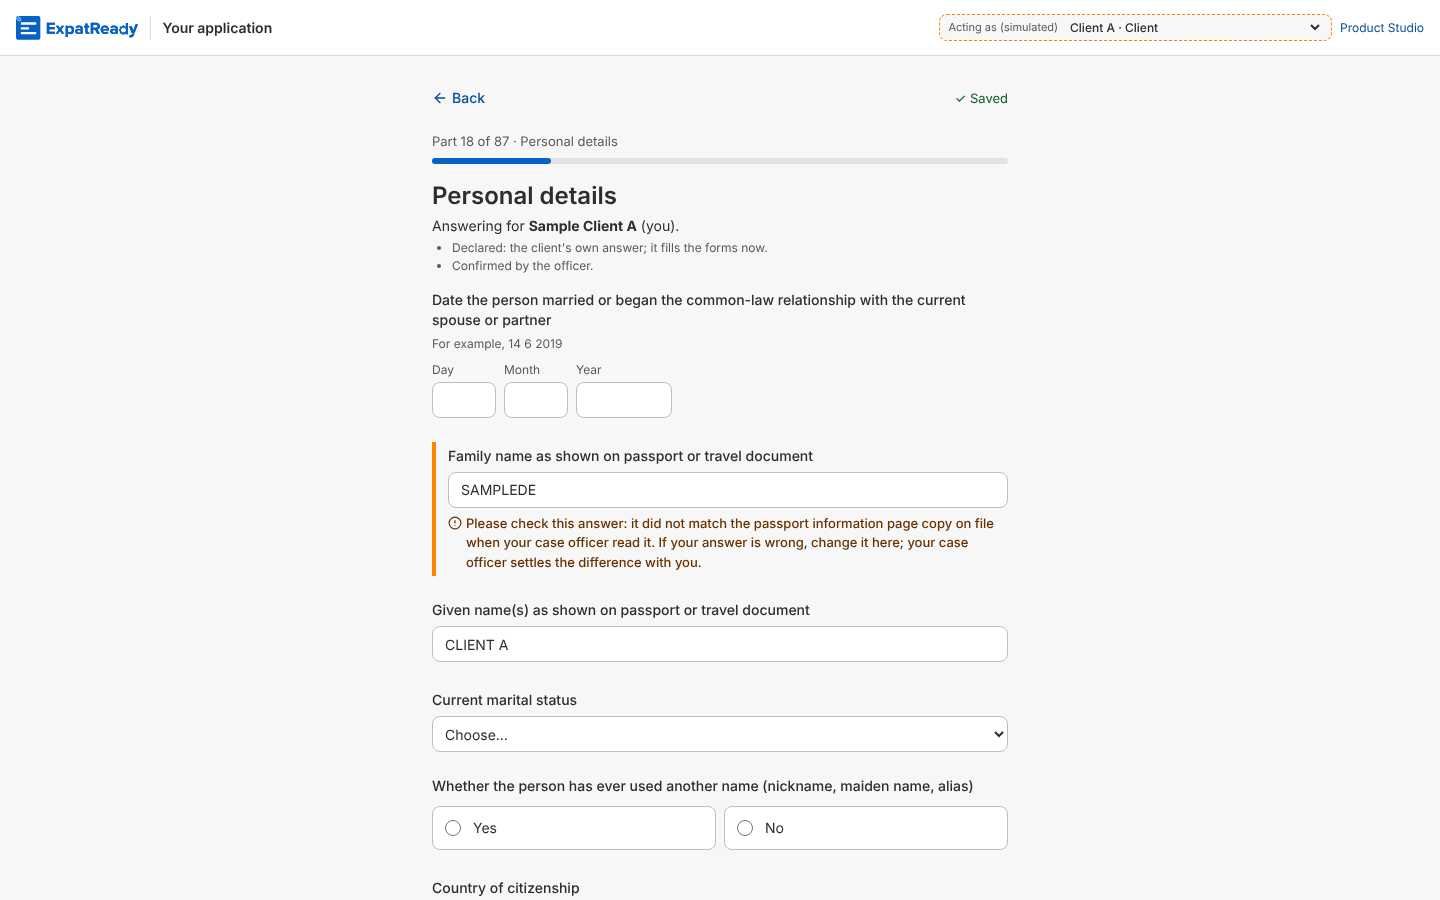
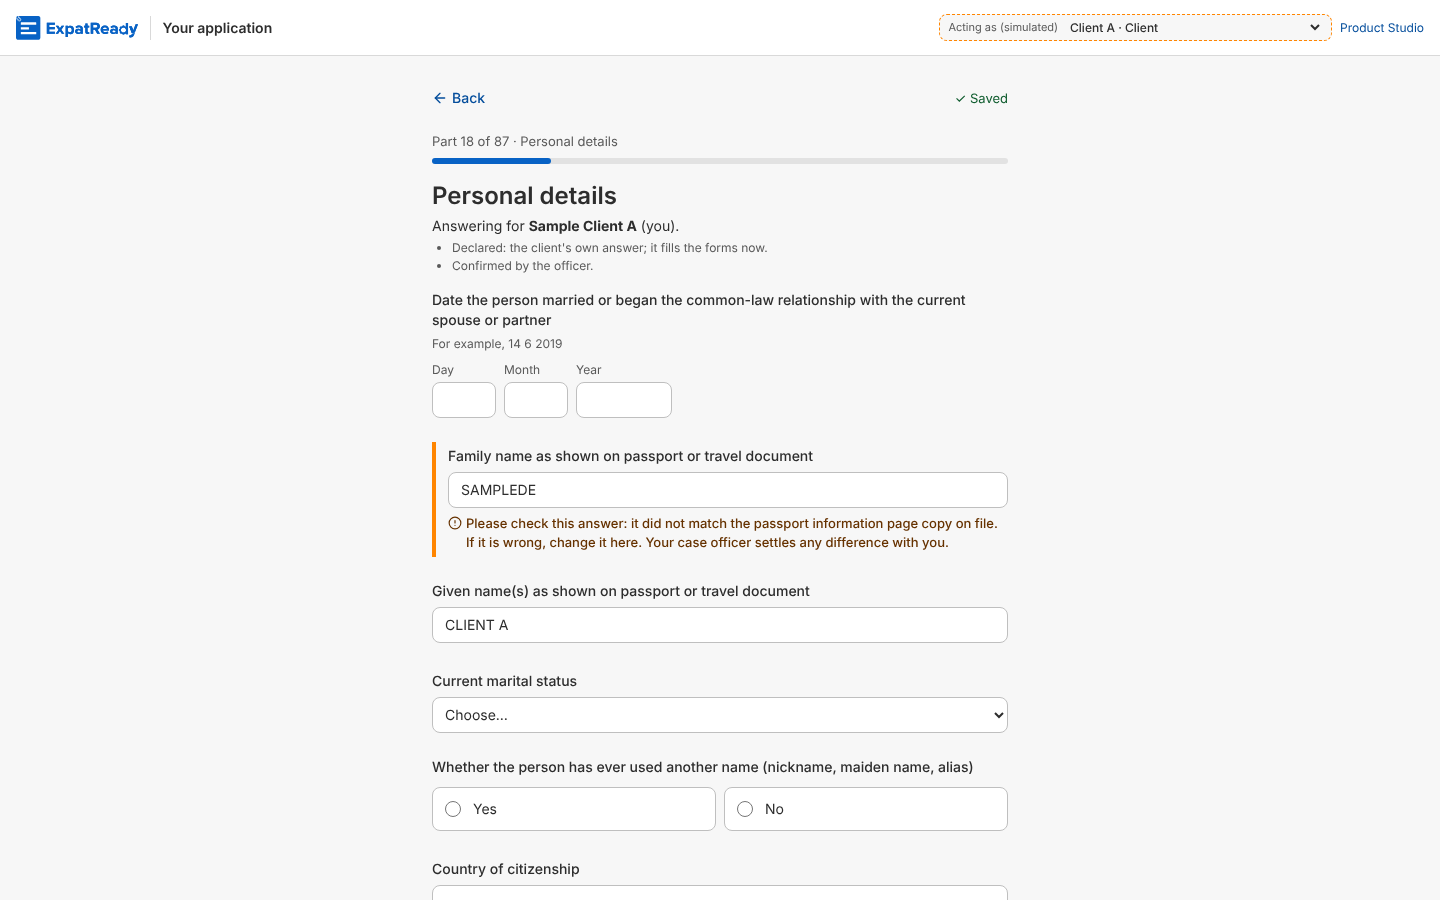
runtime: C6.5 QA-322 — review on a5eb5a9da (Approve): words once the client changed the answer, sentences under 20 words, the document's own name
m1 after the client's own change the note says so instead of asking again; m2 every sentence under 20
words; m3 the document name keeps its case but its first letter. pleaseCheckWords tested in
check_c65_document_rules (21/21). C6.5 pack 33/35 on the checkpoint (19b, 20: FQ-10). Walk shots 05 (after
the client's change) and 06 (390 px). Review and journey report (8.5/10) recorded.

Claude-Session: https://claude.ai/code/session_01Ln6TiRSqJhHZSGZadx6Xs9

Changed region(s): [[0.2812, 0.5911, 0.6875, 0.9333], [0.2812, 0.9333, 0.4062, 0.9956]]

diff --git a/ai-workers/problem-1-pathway-setup-and-form-filling/prototype/studio/api/src/runtime.ts b/ai-workers/problem-1-pathway-setup-and-form-filling/prototype/studio/api/src/runtime.ts
@@ -67,6 +67,17 @@ export const offeredRoles = (s: Snapshot) => addableRoles(s).filter((p) => p.rol
 
 export type Reached = Awaited<ReturnType<Runtime["reach"]>>;
 
+/** QA-322 (P-142 D6): the client's words on an answer while a typed-versus-document check is open on it. The document's
+ *  value is never shown; sentences under 20 words (BIC-20, review m2); the document's own name, only its first letter in
+ *  lower case (review m3: "Letter of invitation (Sample)" keeps "Sample"); and once the client changed the answer, words
+ *  that say so instead of asking again (review m1). */
+export function pleaseCheckWords(documentName: string, changedSince: boolean): string {
+  const doc = documentName.charAt(0).toLowerCase() + documentName.slice(1);
+  return changedSince
+    ? `Please check this answer: you changed it after it was compared with the ${doc} on file. Your case officer checks it again and settles any difference with you.`
+    : `Please check this answer: it did not match the ${doc} on file. If it is wrong, change it here. Your case officer settles any difference with you.`;
+}
+
 @Injectable()
 export class Runtime {
   constructor(@Inject(Db) private readonly db: Db, @Inject(Workspace) private readonly ws: Workspace, @Inject(Audit) private readonly audit: Audit, @Inject(Programs) private readonly programs: Programs) {}
@@ -394,16 +405,19 @@ export class Runtime {
   /** QA-322: the open typed-versus-document checks (C6.5, BR-7) as "please check" notes on the client's own parts. A
    *  check on a question the client is not asked (an answer staff enter from the document) is not shown to the client. */
   private async documentChecks(c: Reached, sections: ReturnType<typeof caseView>["sections"]): Promise<ReturnType<typeof caseView>["checks"]> {
-    const open = await this.db.answerCheck.findMany({ where: { caseId: c.id, state: "open" }, select: { id: true, subjectId: true, fact: true, documentId: true }, orderBy: [{ openedAt: "asc" }, { id: "asc" }] });
+    const open = await this.db.answerCheck.findMany({ where: { caseId: c.id, state: "open" }, select: { id: true, subjectId: true, fact: true, documentId: true, answerId: true }, orderBy: [{ openedAt: "asc" }, { id: "asc" }] });
     if (!open.length) return [];
     const docs = await this.db.caseDocument.findMany({ where: { id: { in: [...new Set(open.map((k) => k.documentId))] } }, select: { id: true, documentType: true } });
     const types = (this.snapshotOf(c).document_types ?? []) as { key: string; name: string }[];
-    const nameOf = (id: string) => { const key = docs.find((d) => d.id === id)?.documentType ?? "document"; return (types.find((t) => t.key === key)?.name ?? key.replace(/_/g, " ")).toLowerCase(); };
+    const nameOf = (id: string) => { const key = docs.find((d) => d.id === id)?.documentType ?? "document"; return types.find((t) => t.key === key)?.name ?? key.replace(/_/g, " "); };
+    // Review m1: whether the client changed the answer since the check opened (it compared another answer then).
+    const current = await this.db.clientCanonicalAnswer.findMany({ where: { subjectId: { in: [...new Set(open.map((k) => k.subjectId))] }, rowKey: null, supersededById: null, canonicalFieldKey: { in: [...new Set(open.map((k) => k.fact))] } }, select: { id: true, subjectId: true, canonicalFieldKey: true } });
+    const changed = (k: (typeof open)[number]) => { const now = current.find((a) => a.subjectId === k.subjectId && a.canonicalFieldKey === k.fact); return !!now && now.id !== k.answerId; };
     return open.flatMap((k) => {
       const sec = sections.find((x) => x.subjectId === k.subjectId && x.questions.some((q) => q.fact === k.fact && !q.hidden && !q.group));
       if (!sec) return [];
       return [{ id: `document_check.${k.id}`, severity: "warn", group: "document", subjectId: k.subjectId, about_label: sec.about_label, fact: k.fact, section: sec.section, illustrative: false,
-        message: `Please check this answer: it did not match the ${nameOf(k.documentId)} on file when your case officer read it. If your answer is wrong, change it here; your case officer settles the difference with you.` }];
+        message: pleaseCheckWords(nameOf(k.documentId), changed(k)) }];
     });
   }
 

diff --git a/ai-workers/problem-1-pathway-setup-and-form-filling/prototype/studio/tests/check_c65_document_rules.ts b/ai-workers/problem-1-pathway-setup-and-form-filling/prototype/studio/tests/check_c65_document_rules.ts
@@ -6,6 +6,7 @@
 import { mkdtempSync, rmSync, writeFileSync } from "node:fs";
 import { tmpdir } from "node:os";
 import { join } from "node:path";
+import { pleaseCheckWords } from "../api/src/runtime.ts";
 import { CASE_KINDS, inReleaseWords, letterReadUsd, notWritable, readerOf, sameValue, savedRead } from "../api/src/case-documents.ts";
 import { costUsd, LETTER_READ_CARD } from "../../p2/ledger.ts";
 import { MAX_ATTEMPTS } from "../../p2/policy.ts";
@@ -56,4 +57,13 @@ try {
   ok("C6.5 R7 (fail): a file naming one checksum but holding another's read, a malformed fact, a bad checksum or no folder: nothing replays", savedRead(other, dir) === null && savedRead("c".repeat(64), dir) === null && savedRead("../x", dir) === null && savedRead(sha, join(dir, "none")) === null);
 } finally { rmSync(dir, { recursive: true, force: true }); }
 
+// QA-322 (P-142 D6), review m1-m3 on a5eb5a9da: the client's "please check" words.
+{
+  const before = pleaseCheckWords("Passport information page copy", false), after = pleaseCheckWords("Letter of invitation (Sample)", true);
+  const sentences = (t: string) => t.split(/(?<=\.)\s+/).map((x) => x.split(/\s+/).filter(Boolean).length);
+  ok("QA-322 m2: every sentence of either note is under 20 words (BIC-20)", [...sentences(before), ...sentences(after)].every((n) => n < 20), { before: sentences(before), after: sentences(after) });
+  ok("QA-322 m3: the document keeps its own name, only its first letter in lower case", /the passport information page copy on file/.test(before) && /the letter of invitation \(Sample\) on file/.test(after));
+  ok("QA-322 m1: once the client changed the answer, the note says so and no longer asks them to change it", /you changed it after it was compared/.test(after) && !/change it here/.test(after) && /change it here/.test(before));
+  ok("QA-322: both notes start \"Please check this answer\" and say the case officer settles it; neither carries a value", [before, after].every((t) => /^Please check this answer:/.test(t) && /case officer/.test(t)));
+}
 process.exitCode = summary() ? 1 : 0; // B160: a red line fails the suite (run-suites.sh judges the exit code)

diff --git a/ai-workers/problem-1-pathway-setup-and-form-filling/product/screens/QA-322-please-check/review.md b/ai-workers/problem-1-pathway-setup-and-form-filling/product/screens/QA-322-please-check/review.md
@@ -1,0 +1,93 @@
+# QA-322 review: the client's "please check" (P-142 D6), PR #1404 at a5eb5a9da, 9 Nov 2026
+
+**Reviewer:** an independent agent in a fresh context; it did not build this. **Verdict:** Ship. There is no Blocker and no Major. Six Minors are listed below: fix them or list them in the PR.
+**Evidence:** an isolated copy `rv_q322` on :4438 with the configured checkpoint, US$0, live AI off, never :4400. The checks were:
+* the C6.5 pack;
+* the builder's walk and my own walk (`scratchpad/rv-q322-walk.mts`), as the client at 1440, 1024 and 390 px, plus a keyboard pass and 200 % zoom;
+* axe-core (WCAG 2.2 A/AA) on the overview, the part and the summary;
+* a mutation run, with `api/src/runtime.ts` put back to 60235a001.
+
+Screenshots are in the scratchpad (`rv-shots/`), not in the repo. The journey report is `journey-test-client-2026-11-09.md`.
+
+## What was judged
+* **D6 is met for the client.** The client typed SAMPLEDE and the passport reads SAMPLED. The note shows under Client A's family name, with a warn border and icon, and the input's `aria-describedby` points at it. The part reads "Check answers" on the overview, and Save and continue lists the note in "Check these answers". The same holds for the spouse's note on the spouse's part (part 44). The pill and note show at 390 px too, with 0 px sideways scroll. After the officer resolved Client A's check, Client A's note was gone and the spouse's note stayed.
+* **The officer's half and the Agent view are unchanged.** The diff only adds to `view()` when `mode !== "agent"` (runtime.ts:390). The Agent view carries 0 `document_check.*` entries. C6.5-13 to -17 stay green: Confirm section is refused with 409, resolving without a reason gets 400, a client marking a value checked gets 403 (P-142 D3), and staff marking it checked works. `resolve`, the drawer and `checkedAgainst` are not touched.
+* **Hiding the document's value is right.** P-142 D3 says the client's confirmation is their own declaration. Showing the passport's reading would invite the client to copy a machine read; coded-line names drop accents and transliterate. The note names the document to look at, which is enough to act on. In the client payload, `checks` carries neither the typed nor the read value.
+* **No leaks were found:**
+  * Another client (`user-Q`) gets 404, the solo firm's officer (`user-S`) gets 404, and no actor gets 401.
+  * The query is scoped to `caseId` of the reached case.
+  * A check shows only when its person and fact match a section the client's view already holds, on a question that is neither hidden nor in a repeating group (runtime.ts:403).
+  * A check never sits on a relative or on a per-row fact: documents belong to participants only (case-documents.ts:389), and per-row facts are not used.
+  * A case-level letter check shows only where the client is asked that case fact.
+  * A spouse check shows to the principal, who already answers for the spouse ("You answer for everyone travelling").
+* **PQR is consistent.** `pqr()` (runtime.ts:416) leaves document checks out. That is right, because PQR's checks feed its eligibility line ("Needs a closer look: …"), and a spelling check is not an eligibility signal. The client's PQR on this release has 0 questions.
+* **Performance:**
+  * The change adds one indexed query (`answer_check @@index([caseId, subjectId])`) per view. A second query (case documents) runs only when a check is open. There is no query per row.
+  * The client's view averaged 52 ms over 10 calls with 2 checks open.
+  * Opening a part makes no request.
+  * The overview settled in 0.8 s.
+* **The flow does not trap the client.** "leave them for now and continue" moved the client to part 19 at both widths. The other parts stay reachable from the overview. For the cost of this, see m1 and m5.
+* **Accessibility:**
+  * axe found no violations in all three states.
+  * The keyboard path reaches the family name in 4 Tabs.
+  * Enter saves, and focus moves to the summary (`role=alert`).
+  * At 200 % zoom (512 px) there is no sideways scroll.
+  * There were no browser errors.
+* **The pack steps are sound:**
+  * C6.5 is 33/35, with only 19b and 20 red (FQ-10), re-run after I restored the file.
+  * With runtime.ts at 60235a001 the pack is 32/35, with **C6.5-12b red**.
+  * 12c fails if the `mode !== "agent"` guard goes, and 15b fails if the `state: "open"` filter goes. Each rule's test fails when its rule is removed.
+
+## Findings
+**Block:** none. **Major:** none.
+
+**Minor (Should)**
+* **m1. The note does not change once the client has changed the answer** (runtime.ts:406). Scenario: the client changes SAMPLEDE to SAMPLED and presses Save and continue. The answer is stored as `DECLARED|SAMPLED`, and the check stays open, as designed. But the part stops the client again with "Check these answers" and the same words: "…If your answer is wrong, change it here…". The client has already done that and gets no acknowledgement (`rv-shots/1440-03-after-change-summary.png`, `390-03-…`). The words stay literally true ("did not match … when your case officer read it"), but they give stale advice. Fix: when the current answer is not the check's `answerId`, say "You changed this answer. Your case officer will check it against your {document}." No new scope is needed: the data is already loaded.
+* **m2. The first sentence is 21 words** (runtime.ts:406). BIC-20 asks for client sentences under 20 words, and "the passport information page copy on file" is heavy. A suggestion: "Please check this answer. It did not match your passport information page copy when your case officer read it."
+* **m3. `.toLowerCase()` runs on the whole document type name** (runtime.ts:401). "Letter of invitation (Sample)" becomes "letter of invitation (sample)", and "… national ID" becomes "national id". Lower only the first letter, or keep the name as the release gives it.
+* **m4. The check is added after the per-section `problems` were built** (runtime.ts:390 against engine/runtime/case.ts:465-470). In the client view, the document check is in `checks` but not in `sections[].problems`, unlike every other check there. No client screen reads `problems` today (questionnaire.tsx:468 reads `view.checks`), so nothing visible breaks. The contract is inconsistent for the next consumer: add the check to `problems` too, or note the exception.
+* **m5. While a check is open, the part can never be Done** (questionnaire.tsx:383; the code is unchanged, but this change is what reaches it). "N of 87 parts done" cannot reach 87, and "Every part is answered" never shows. "Continue where you left off" lands on this part whenever it is the first part not done, and only the officer can clear it. This is acceptable because the note says the officer settles it. It is listed so the m1 wording also covers the case "nothing more for you to do here".
+* **m6. The builder's record walks 1440 px only.** I walked 390 px and it is fine (`rv-shots/390-01…05`). Add one 390 px line to walk.md.
+
+## Scores (D1–D20; simulated only for D17 and D20)
+| D | Score | Evidence |
+|---|---|---|
+| D1 | 5 | P-142 D6 met on the client side; D3 and the officer's half unchanged (C6.5-12b, -13 to -17) |
+| D2 | 5 | Read-only addition; the stored answer stays the client's (`DECLARED\|SAMPLED`), and the check stays open |
+| D3 | 5 | Uses the existing warn-check shape and client UI; nothing duplicated |
+| D4 | 5 | Hidden and group questions are excluded (runtime.ts:403) |
+| D5 | 4 | A reload and leaving the part are fine; the summary repeats after a change (m1) |
+| D6 | n/a | No content governance touched |
+| D7 | n/a | No AI; the passport is read by coded-line rules |
+| D8 | 5 | The overview pill points to the part; the summary links to the field |
+| D9 | 4 | One action: change it or leave it; Continue pins to this part (m5) |
+| D10 | 4 | Plain and not blaming; 21 words; lower-cased names (m2, m3) |
+| D11 | 3 | No acknowledgement after the client changes the answer (m1) |
+| D12 | 5 | Same look as every other client check (warn border and icon) |
+| D13 | 5 | axe none; `aria-describedby`; keyboard; 390 px and 200 % zoom with no sideways scroll |
+| D14 | 5 | Team tokens and components only |
+| D15 | 5 | 52 ms per view; one indexed query; none per row |
+| D16 | 4 | 12b fails without the fix; the fixture variant was the builder's run, not mine |
+| D17 | 4 (simulated only) | Agent walk |
+| D18 | 5 | Names the document and who settles it; withholds the read value |
+| D19 | 4 | Client → officer resolve → note gone, end to end |
+| D20 | simulated only | No intended user walked it |
+
+## BIC (P-407; client case screen, this change only)
+* **Met:**
+  * BIC-04: the note is a warning; the answer is saved.
+  * BIC-07: not overwritten; the officer picks with a reason.
+  * BIC-11: one primary button.
+  * BIC-13: the field and the summary use the same words and are linked.
+  * BIC-18: "Saved" is shown.
+  * BIC-19: no new reds; no ids.
+* **Partly:** BIC-20 (m2: 21 words).
+* **N/A:** BIC-01 to -03, -05, -06, -08 to -10, -12, -14 to -17. This change adds no question, document view, roles, tasks, filing, tooltip or review step.
+* **Screens:** 1440 and 390 px, plus a keyboard pass at 1024 px. There is no 1024 px screenshot.
+
+## Not checked
+* A real screen reader.
+* The fixture run (C6.5-12b's "not asked" branch); I relied on the builder's 33/35.
+* An intended client's unaided walk (D17 and D20 stay with the founder).
+
+Verdict: Approve a5eb5a9da

diff --git a/ai-workers/problem-1-pathway-setup-and-form-filling/product/screens/QA-322-please-check/journey-test-client-2026-11-09.md b/ai-workers/problem-1-pathway-setup-and-form-filling/product/screens/QA-322-please-check/journey-test-client-2026-11-09.md
@@ -1,0 +1,54 @@
+# Journey test: the client's "please check" (QA-322, P-142 D6), reviewer role, 9 Nov 2026
+
+**Setup:**
+* Commit a5eb5a9da on an isolated copy (`rv_q322`, :4438), configured checkpoint, US$0, live AI off.
+* A fresh Visitor visa family case. The client typed the family names SAMPLEDE (Client A) and SPOUSEE (spouse).
+* The officer used synthetic passports reading SAMPLED and SPOUSED, which opened 2 checks.
+* Scripts: `scratchpad/rv-q322-walk.mts` and `rv-kb.mts`. Shots: `scratchpad/rv-shots/`.
+
+## Journeys (client unless named)
+1. **Main path.** Goal: "Is anything wrong with my answers?" The client opens the questionnaire, sees "Check answers" on Personal details, and opens it. The note under the family name names the document and not its value. Held at 1440 and 390 px.
+2. **Alternate.** The client corrects the name and presses Save and continue. The answer saves (`DECLARED|SAMPLED`), and the summary stops the client again with the same note. Held, but the words do not acknowledge the change (m1).
+3. **Leave for now.** "leave them for now and continue" goes to the next part. The overview still shows "Check answers". Held.
+4. **Other person.** The spouse's note shows on the spouse's part only; Client A's part has no spouse note. Held.
+5. **Wrong role.**
+   * Another client gets 404, another firm's officer gets 404, and no actor gets 401.
+   * The client cannot list checks (403) or mark a value checked (403).
+   * Held.
+6. **Across the boundary (officer).** The officer resolves with a reason and the current answer id. The client's note goes; the spouse's stays. The Agent view carries no client note. Held.
+7. **Recovery.**
+   * A reload keeps the state.
+   * Opening a part makes no request (the cached view).
+   * The keyboard path: 4 Tabs to the field, Enter saves, and focus moves to the summary.
+   * Held.
+
+## Data underneath
+* There is one open check per person and fact, and the typed answer is never overwritten.
+* After the client's change, there is one new DECLARED version and the check stays open.
+* After resolve, the check is resolved with its reason, and the client's view drops only that note.
+* The client payload carries neither the typed nor the document value in `checks`.
+
+## Break-it (short)
+* **Missing note:** the first spouse-part read returned 0 notes. This was a race in my script: the part renders client-side, with no network wait. A re-read showed 1 note at 1440 and 390 px, three times. It is not a product defect.
+* **Removing the fix:** with the fix removed, C6.5-12b goes red (32/35).
+* **Hidden questions, groups and relatives:** excluded by runtime.ts:403. Checks are only ever opened on participants (case-documents.ts:389).
+
+## Score
+| Criterion | Score | Evidence |
+|---|---|---|
+| Task completed | 1 | Journeys 1, 3, 4 and 6 |
+| Next step obvious | ½ | After a change the same advice repeats; Continue pins to the part (m1, m5) |
+| Plain words | ½ | Plain and not blaming, but 21 words and lower-cased names (m2, m3) |
+| Feedback and state | ½ | "Saved" shows, but there is no acknowledgement of the change (m1); `1440-03-after-change-summary.png` |
+| Correct data | 1 | As in "Data underneath" |
+| Error recovery | 1 | Leave for now, reload, wrong role |
+| Accessibility and screen sizes | 1 | axe none in 3 states; `aria-describedby`; keyboard; 390 px and 200 % zoom with no sideways scroll |
+| Speed | 1 | 52 ms per view; overview 0.8 s; no request per part |
+| Visual quality | 1 | Matches existing client checks; `390-02-part-note.png` |
+| Trust and sources | 1 | Names the document and who settles it; no AI; the read value is withheld |
+
+**Score: 8.5/10. Pass** (8 or more and no 0). Raising it, most valuable first:
+1. Fix m1, the acknowledgement after a change; this lifts "next step" and "feedback".
+2. Fix m2 and m3, the wording.
+
+**Not tested:** a real screen reader, and an intended user's unaided walk (D17 and D20 stay with the founder).

diff --git a/ai-workers/problem-1-pathway-setup-and-form-filling/product/screens/QA-322-please-check/walk.md b/ai-workers/problem-1-pathway-setup-and-form-filling/product/screens/QA-322-please-check/walk.md
@@ -47,3 +47,23 @@ No browser errors.
   * **C6.5-15b:** once the officer resolves the check, the client's note is gone.
 * `tests/runtime/check_runtime_r1a.ts` 98/98 and `check_runtime_r1c.cjs` 140/140 (the client questionnaire's checks and screens) on a fresh copy. One earlier r1c run stopped at 18/19; it did not repeat, with or without the change.
 * Type check: no new errors.
+
+## After the review (Approve on a5eb5a9da, journey 8.5/10; `review.md`)
+* **m1:** once the client changed the answer, the note says so instead of asking again: "Please check this answer: you changed it after it was compared with the {document} on file. Your case officer checks it again and settles any difference with you." The check stays open for the officer.
+* **m2:** every sentence is under 20 words (BIC-20).
+* **m3:** the document keeps its own name, with only its first letter in lower case ("letter of invitation (Sample)").
+* The words are one function, `pleaseCheckWords` in `api/src/runtime.ts`, tested in `tests/check_c65_document_rules.ts`: 4 new checks, 21/21.
+
+New shots:
+
+| Shot | What it shows |
+|---|---|
+| `screenshots/05-client-after-own-change-1440.png` | After the client changed the answer to the document's spelling, the note says it was changed after the comparison and that the officer checks it again |
+| `screenshots/06-client-part-please-check-390.png` | The note at 390 px, with no sideways scroll |
+
+Not changed, for the tech lead:
+* **m4:** the note is in `checks`, not in `sections[].problems`. No client screen reads `problems`.
+* **m5:** while a check is open, the part is never Done.
+* **m6:** answered by the 390 px shot.
+
+Re-run on the checkpoint: `C6.5.test.ts` 33/35 (19b and 20 only).
